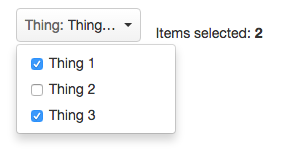
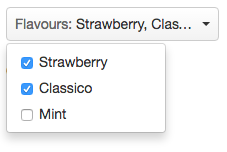
Updated demo app to use a clearer example. Updated README to mention the demo app and include a link to an example on plunker. Rebuilt the module.

diff --git a/dist/so-multiselect.min.js b/dist/so-multiselect.min.js
@@ -1,4 +1,4 @@
-/*! so-multiselect - 1.0.0 - 2016-05-17
+/*! so-multiselect - 1.0.0 - 2016-05-23
  * Copyright (c) 2016 Sonalake;
  */
 !function(a,b,c,d){"use strict";c.module("multiselect.controllers",[]).controller("MultiSelectController",["$scope","$attrs","$parse","$filter","MultiSelectConfig","MultiSelectService",function(a,b,d,e,f,g){var h,i=this,j=a.$new(),k=f.openClass,l=c.noop,m=b.onToggle?d(b.onToggle):c.noop,n=!0;this.init=function(c){i.$element=c,b.isOpen&&(h=d(b.isOpen),l=h.assign,a.$watch(h,function(a){j.isOpen=!!a})),a.selectedItems()},this.toggle=function(a){return j.isOpen=arguments.length?!!a:!j.isOpen,j.isOpen},this.isOpen=function(){return j.isOpen},j.getToggleElement=function(){return i.toggleElement},j.getMenuElement=function(){return i.menuElement},j.focusToggleElement=function(){i.toggleElement&&i.toggleElement[0].focus()},a.itemSelected=function(b){a.filterItems[b]&&(a.filterItems[b].selected=!a.filterItems[b].selected)},a.selectedItemsString="All",a.selectedItems=function(){var b=e("filter")(a.filterItems,{selected:!0}),c="";if(0===b.length)c="All";else for(var d=0;d<b.length;d++)c+=b[d].name,d!==b.length-1&&(c+=", ");a.selectedItemsString=c,n?n=!1:j.filterOnSelected({selectedItems:b})},j.$watch("isOpen",function(b,d){b?i.$element.addClass(k):i.$element.removeClass(k),b?(j.focusToggleElement(),g.open(j)):g.close(j),l(a,b),c.isDefined(b)&&b!==d&&m(a,{open:!!b})}),a.$on("$locationChangeSuccess",function(){j.isOpen=!1}),a.$on("$destroy",function(){j.$destroy()})}]),c.module("multiselect.directive",[]).directive("soMultiselect",function(){return{restrict:"EA",scope:{filterName:"@name",filterItems:"=items",filterOnSelected:"&onSelected",buttonClasses:"@buttonClass"},controller:"MultiSelectController",replace:!0,templateUrl:"templates/multiselect.tpl.html",link:function(a,b,c,d){a.filterItems&&a.filterItems.length>0&&d.init(b)}}}).directive("soMultiselectToggle",function(){return{restrict:"CA",require:"?^soMultiselect",link:function(a,b,d,e){if(e){var f=b.parent();e.toggleElement=b,e.menuElement=c.element(f.children()[1]);var g=function(c){c.preventDefault(),b.hasClass("disabled")||d.disabled||a.$apply(function(){e.toggle()})};b.bind("click",g),b.attr({"aria-haspopup":!0,"aria-expanded":!1}),a.$watch(e.isOpen,function(a){b.attr("aria-expanded",!!a)}),a.$on("$destroy",function(){b.unbind("click",g)})}}}}),c.module("so.multiselect",["multiselect.controllers","multiselect.directive","multiselect.services"]).constant("MultiSelectConfig",{openClass:"open"}).run(["$templateCache",function(a){a.put("templates/multiselect.tpl.html",'<div class="multiselect-container">\n    <button class="btn {{buttonClasses}} so-multiselect-toggle" ng-click="open=!open">\n        <div class="filter-wrap"><span class="filter-label">{{filterName}}:</span> <span class="filter-values">{{selectedItemsString}}</span></div>\n        <span class="caret" ng-if="filterItems.length > 0"></span>\n    </button>\n    <ul class="multiselect-menu" aria-labelledby="dropdownMenu">\n        <li ng-repeat="item in filterItems" ng-click="selectedItems()">\n            <input type="checkbox" ng-model="item.selected" /><span ng-click="itemSelected($index)">{{item.name}}</span>\n        </li>\n    </ul>\n</div>\n')}]),c.module("multiselect.services",[]).service("MultiSelectService",["$document",function(a){var b=null,c=function(a){var c=b.getToggleElement(),d=b.getMenuElement();a&&c&&c[0].contains(a.target)||a&&d&&d[0].contains(a.target)||b.$apply(function(){b.isOpen=!1})},d=function(a){27===a.which&&(b.focusToggleElement(),c())};this.open=function(e){b||(a.bind("click",c),a.bind("keydown",d)),b&&b!==e&&(b.isOpen=!1),b=e},this.close=function(e){b===e&&(b=null,a.unbind("click",c),a.unbind("keydown",d))}}])}(window,window.$,window.angular);

diff --git a/src/demo/index.html b/src/demo/index.html
@@ -46,6 +46,14 @@
 			.btn-grey:focus, .btn-grey:active:focus {
 				outline: 0;
 			}
+			
+			/**
+			 * overwriting the default max-width so that we can see more
+			 * of the value names.
+			 */
+			.multiselect-container .filter-wrap .filter-values {
+				max-width: 120px;
+			}
 		</style>
 	</head>
 	<body ng-app="demo" id="ng-app">
@@ -57,13 +65,20 @@
 			<h3>Basic Demo</h3>
 			<p>This is a basic demo set up. It gives a quick example of how to use so-multiselect.</p>
 			<div class="row">
-				<div class="col-xs-12">
+				<div class="col-xs-6">
 					<ul class="nav navbar-nav">
 						<li>
-							<div so-multiselect items="things" name="Thing" on-selected="onThingsSelected(selectedItems)" button-class="btn-grey"></div>
+							<div so-multiselect items="flavourList" name="Flavours" on-selected="onFlavourSelected(selectedItems)" button-class="btn-grey"></div>
 						</li>
-						<li><p class="navbar-text">Items selected: <strong>{{items.length}}</strong></p></li>
 					</ul>
+				</div>
+				<div class="col-xs-6">
+				  <p>Chosen Flavours: <strong>{{chosenFlavours.length}}</strong></p>
+				  <ul>
+				    <li ng-repeat="item in chosenFlavours">
+				      {{item.name}}
+				    </li>
+				  </ul>
 				</div>
 			</div>
 			<hr/>
@@ -84,31 +99,31 @@
 						<div class="tab-content">
 							<div class="tab-pane" ng-class="{'active':demo1.markup}" ng-show="demo1.markup">
 								<pre><code class="html" ng-non-bindable>&lt;div so-multiselect
-&nbsp;&nbsp;&nbsp;&nbsp;&nbsp;items="things"
-&nbsp;&nbsp;&nbsp;&nbsp;&nbsp;name="Thing"
-&nbsp;&nbsp;&nbsp;&nbsp;&nbsp;on-selected="onThingsSelected(selectedItems)"
+&nbsp;&nbsp;&nbsp;&nbsp;&nbsp;items="flavourList"
+&nbsp;&nbsp;&nbsp;&nbsp;&nbsp;name="Flavours"
+&nbsp;&nbsp;&nbsp;&nbsp;&nbsp;on-selected="onFlavourSelected(selectedItems)"
 &nbsp;&nbsp;&nbsp;&nbsp;&nbsp;button-class="btn-grey"
 &gt;&lt;/div&gt;
-&lt;p&gt;Items selected: &lt;strong&gt;{{items.length}}&lt;/strong&gt;&lt;/p&gt;</code></pre>
+&lt;p&gt;Chosen Flavours: &lt;strong&gt;{{chosenFlavours.length}}&lt;/strong&gt;&lt;/p&gt;</code></pre>
 							</div>
 							<div class="tab-pane" ng-class="{'active':demo1.javascript}" ng-show="demo1.javascript">
 								<pre><code class="javascript" ng-non-bindable>.controller('DemoCtrl', ['$scope', function ($scope) {
 &nbsp;&nbsp;&nbsp;&nbsp;// the selector config
-&nbsp;&nbsp;&nbsp;&nbsp;$scope.things = [{
-&nbsp;&nbsp;&nbsp;&nbsp;&nbsp;&nbsp;&nbsp;&nbsp;key: 't1',
-&nbsp;&nbsp;&nbsp;&nbsp;&nbsp;&nbsp;&nbsp;&nbsp;name: 'Thing 1'
+&nbsp;&nbsp;&nbsp;&nbsp;$scope.flavourList = [{
+&nbsp;&nbsp;&nbsp;&nbsp;&nbsp;&nbsp;&nbsp;&nbsp;key: 'f1',
+&nbsp;&nbsp;&nbsp;&nbsp;&nbsp;&nbsp;&nbsp;&nbsp;name: 'Strawberry'
 &nbsp;&nbsp;&nbsp;&nbsp;}, {
-&nbsp;&nbsp;&nbsp;&nbsp;&nbsp;&nbsp;&nbsp;&nbsp;key: 't2',
-&nbsp;&nbsp;&nbsp;&nbsp;&nbsp;&nbsp;&nbsp;&nbsp;name: 'Thing 2'
+&nbsp;&nbsp;&nbsp;&nbsp;&nbsp;&nbsp;&nbsp;&nbsp;key: 'f2',
+&nbsp;&nbsp;&nbsp;&nbsp;&nbsp;&nbsp;&nbsp;&nbsp;name: 'Classico'
 &nbsp;&nbsp;&nbsp;&nbsp;}, {
-&nbsp;&nbsp;&nbsp;&nbsp;&nbsp;&nbsp;&nbsp;&nbsp;key: 't3',
-&nbsp;&nbsp;&nbsp;&nbsp;&nbsp;&nbsp;&nbsp;&nbsp;name: 'Thing 3'
+&nbsp;&nbsp;&nbsp;&nbsp;&nbsp;&nbsp;&nbsp;&nbsp;key: 'f3',
+&nbsp;&nbsp;&nbsp;&nbsp;&nbsp;&nbsp;&nbsp;&nbsp;name: 'Mint'
 &nbsp;&nbsp;&nbsp;&nbsp;}];
 
-&nbsp;&nbsp;&nbsp;&nbsp;$scope.items = [];
+&nbsp;&nbsp;&nbsp;&nbsp;$scope.chosenFlavours = [];
 
-&nbsp;&nbsp;&nbsp;&nbsp;$scope.onThingsSelected = function(selectedItem) {
-&nbsp;&nbsp;&nbsp;&nbsp;&nbsp;&nbsp;&nbsp;&nbsp;$scope.items = selectedItem;
+&nbsp;&nbsp;&nbsp;&nbsp;$scope.onFlavourSelected = function(selectedItem) {
+&nbsp;&nbsp;&nbsp;&nbsp;&nbsp;&nbsp;&nbsp;&nbsp;$scope.chosenFlavours = selectedItem;
 &nbsp;&nbsp;&nbsp;&nbsp;};
 }])</code></pre>
 							</div>

diff --git a/src/demo/app.js b/src/demo/app.js
@@ -3,25 +3,25 @@ angular.module('demo', [
 ])
 
 .controller('DemoCtrl', ['$scope', function ($scope) {
-	// the selector config
-	$scope.things = [{
-		key: 't1',
-		name: 'Thing 1'
+	$scope.flavourList = [{
+		key: 'f1',
+		name: 'Strawberry'
 	}, {
-		key: 't2',
-		name: 'Thing 2'
+		key: 'f2',
+		name: 'Classico'
 	}, {
-		key: 't3',
-		name: 'Thing 3'
+		key: 'f3',
+		name: 'Mint'
 	}];
 
-	$scope.items = [];
+	$scope.chosenFlavours = [];
 
-	$scope.onThingsSelected = function(selectedItem) {
-		$scope.items = selectedItem;
+	$scope.onFlavourSelected = function(selectedItem) {
+		$scope.chosenFlavours = selectedItem;
 	};
 
 
+	// relates to tabs and example code
 	$scope.demo1 = {
 		markup: true,
 		javascript: false

diff --git a/dist/so-multiselect.js b/dist/so-multiselect.js
@@ -1,4 +1,4 @@
-/*! so-multiselect - 1.0.0 - 2016-05-17
+/*! so-multiselect - 1.0.0 - 2016-05-23
  * Copyright (c) 2016 Sonalake;
  */
 (function(window, $, angular, undefined) {

diff --git a/dist/so-multiselect.css b/dist/so-multiselect.css
@@ -1,4 +1,4 @@
-/*! so-multiselect - 1.0.0 - 2016-05-17
+/*! so-multiselect - 1.0.0 - 2016-05-23
  * Copyright (c) 2016 Sonalake;
  */
 .multiselect-container .filter-wrap {

diff --git a/README.md b/README.md
@@ -1,6 +1,6 @@
 so-multiselect [![Build Status](https://travis-ci.org/gordonmcg-sonalake/so-multiselect.svg?branch=master)](https://travis-ci.org/gordonmcg-sonalake/so-multiselect) [![codecov coverage](https://img.shields.io/codecov/c/github/gordonmcg-sonalake/so-multiselect.svg?style=flat-square)](https://codecov.io/github/gordonmcg-sonalake/so-multiselect) [![MIT License](https://img.shields.io/github/license/mashape/apistatus.svg?maxAge=2592000)]()
 ================
-> Angular module that provides a multi-select dropdown list using checkboxes.
+> Angular module that provides a multi-select dropdown list with checkboxes.
 
 ![so-multiselect](other/example.png)
 
@@ -12,6 +12,13 @@ The required dependencies are:
 * [AngularJS](http://angular.org) (tested with version 1.2.28+)
 
 This module was built with the intention of using it alongside [UI Bootstrap](https://github.com/angular-ui/bootstrap).
+
+Demo
+-----
+
+For an example of `so-multiselect` in action, take a look at the demo app inside src/demo.
+
+Alternatively, you can find the same [example on plunker.](https://plnkr.co/edit/E3E5KpHdwemNaoXtWimB?p=preview)
 
 Getting Started
 ---------------
@@ -44,31 +51,31 @@ Set up your models in your controller:
 
 ```javascript
 
-$scope.things = [{
-	key: 't1',
-	name: 'Thing 1'
+$scope.flavours = [{
+	key: 'f1',
+	name: 'Strawberry'
 }, {
-	key: 't2',
-	name: 'Thing 2'
+	key: 'f2',
+	name: 'Classico'
 }, {
-	key: 't3',
-	name: 'Thing 3'
+	key: 'f3',
+	name: 'Mint'
 }];
 
-$scope.selectedItems = [];
+$scope.chosenFlavours = [];
 
-$scope.onThingsSelected = function(selectedItems) {
-	$scope.selectedItems = selectedItems;
+$scope.onFlavourSelected = function(selectedItems) {
+	$scope.chosenFlavours = selectedItems;
 };
 ```
 
 Apply the directive to your HTML:
 
 ```html
-<div so-multiselect items="things" name="Thing" on-selected="onThingsSelected(selectedItems)" button-class="btn-grey"></div>
+<div so-multiselect items="flavourList" name="Flavours" on-selected="onFlavourSelected(selectedItems)" button-class="btn-grey"></div>
 ```
 
-* `items` takes a reference to the array of object to appear in the dropdown list, each object containing a `key` and `name`.
+* `items` takes a reference to the array of object to appear in the dropdown list; each object must contain `key` and `name` attributes.
 * `name` is the value for the label that appears inside the trigger for the dropdown list.
 * `on-selected` takes a reference to the callback function you want to execute when an item is selected in the list. The `selectedItems` parameter contains an array of the selected objects.
 * `button-class` is an optional attirbute if you wish to add any extra CSS classes to the trigger for the dropdown list.
